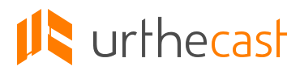
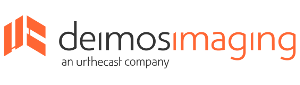
1 more sponsor and changing frame

Changed region(s): [[0.0, 0.1013, 0.99, 0.8354]]

diff --git a/index_en.html b/index_en.html
@@ -66,7 +66,7 @@
             <h2>21-22 November, 2016 / Hotel Ramada Plaza Astana, Astana</h2>
             
             <h1>Space days in Kazakhstan - 2016</h1>
-            <p>Theme: «Cutting edge space technologies: experience and future prospects»</p>
+            <p>Theme: «Cutting edge space technologies: experience and prospects»</p>
             <p>4th &amp; International seminar</p>
             
             <a class="btn btn-yellow" data-scroll href="#registration">Register Now</a>
@@ -421,7 +421,7 @@
                 <div class="col-xs-12">
                     <div class="panel panel-primary">
                         <div class="panel-heading">
-                            <h3 class="panel-title">Theme: «Cutting edge space technologies: experience and future prospects»</h3>
+                            <h3 class="panel-title">Theme: «Cutting edge space technologies: experience and prospects»</h3>
                             <span class="pull-right">
                                 <!-- Tabs -->
                                 <ul class="nav panel-tabs">
@@ -888,6 +888,35 @@
         </div>
         <!--end of container-->
     </section>
+    
+    
+    <section id="hackaton" class="section bg-image-3 contribution">
+        
+        <div class="container">
+            <div class="row">
+                <div class="col-md-12">
+                    <h2 class="text-uppercase section-title font-400" id="hackaton-title">First time in the frame of workshop – 1st Space technology hackathon </h2>
+                    <br/>
+                </div>
+                <div class="col-md-4 text-left">
+                    <p>First space technology hackathon “Space Days” invites students, young scientists, application developers and innovators 
+                    to try their strengths in solution of space problems!   </p>
+                    <a class="btn btn-yellow" href="https://techgarden.kz/space">Find more</a>
+                </div>
+                <br/>
+                <div class="col-md-4 text-left">
+                    <p>Within the event series of interesting master-classes, as well pitching of business ideas and projects based on 
+                    the given domain are planned. The participants are not limited in solving certain space problems. </p>
+                    <a class="btn btn-yellow" href="assets/download/hackaton_booklet.pdf" download target="_blank">Download program</a>
+                </div>
+                <br/>
+                <div class="col-md-4 text-left">
+                    <p>Proposed solutions are only limited by technological areas and conditions of using data from Earth remote sensing 
+                    satellites and high accuracy satellite navigation system of Kazakhstan</p><br/>
+                </div>
+            </div>
+        </div>
+    </section>
 
     <section id="partners" class="section partner">
         <div class="container">
@@ -907,37 +936,40 @@
                     <span id="sponsor_gold_sstl" class="sponsors sponsor_gold"></span>    
                 </div>
             </div>
-            <div class="row">
+            <div class="row text-center">
                 <h3 class="section-title silver"><span>Silver Sponsors</span></h3>
-                <div class="col-md-4 text-center">
+                <div class="col-md-3">
                     <span id="sponsor_silver_urthecast" class="sponsors sponsor_silver"></span>    
                 </div>
-                <div class="col-md-4 text-center">
+                <div class="col-md-3">
                     <span id="sponsor_silver_nat" class="sponsors sponsor_silver"></span>    
                 </div>
-                <div class="col-md-4 text-center">
+                <div class="col-md-3">
                     <span id="sponsor_silver_ba" class="sponsors sponsor_silver"></span>    
                 </div>
-                <div class="col-md-4 text-center">
+                <div class="col-md-3">
                     <span id="sponsor_silver_sunacs" class="sponsors sponsor_silver"></span>    
                 </div>
-                <div class="col-md-4 text-center">
+                <div class="col-md-3">
                     <span id="sponsor_silver_cosmotrans" class="sponsors sponsor_silver"></span>    
                 </div>
-                <div class="col-md-4 text-center">
+                <div class="col-md-3">
                     <span id="sponsor_silver_geoscan" class="sponsors sponsor_silver"></span>    
                 </div>
-                <div class="col-md-4 text-center">
+                <div class="col-md-3">
                     <span id="sponsor_silver_ibs" class="sponsors sponsor_silver"></span>    
                 </div>
-                <div class="col-md-4 text-center">
+                <div class="col-md-3">
                     <span id="sponsor_silver_sovzond" class="sponsors sponsor_silver"></span>    
                 </div>
-                <div class="col-md-4 text-center">
+                <div class="col-md-3 col-md-offset-1">
                     <span id="sponsor_silver_racurs" class="sponsors sponsor_silver"></span>    
                 </div>
-                <div class="col-md-4 col-md-offset-4 text-center">
+                <div class="col-md-3">
                     <span id="sponsor_silver_scanecs" class="sponsors sponsor_silver"></span>    
+                </div>
+                <div class="col-md-3">
+                    <span id="sponsor_silver_baiterek" class="sponsors sponsor_silver"></span>    
                 </div>
             </div>
             <div class="row text-center">
@@ -1203,7 +1235,7 @@
                     <address>
                         <p>
                             Abai Ave.47<br>Ramada Plaza Astana<br/>
-                            <a href="http://ramadaplazaastana.kz/"><img src="assets/images/logoRPA.png" alt ="Ramada Plaza Astana logo" height="106" width="150"/></a><br/>
+                            <a href="http://ramadaplazaastana.kz/"><img src="assets/images/logoRPA.png" alt ="Ramada Plaza Astana logo" width="200px" height="141px" /></a><br/>
                             <span><b>Contacts</b> <br/>Email: <a href="mailto:spacedayskz@gmail.com">spacedayskz@gmail.com</a></span>
                             <br/>
                             <br/>

diff --git a/index.html b/index.html
@@ -219,7 +219,7 @@
                         <figure>
                             <img alt="" class="img-responsive center-block" src="assets/images/speakers/speaker-6.jpg">
                         </figure>
-                        <h4>Луис Гомс</h4>
+                        <h4>Луис Гомес</h4>
                         <p>Коммерческий директор "Surrey Satellite Technology Ltd"</p>
                     </div>
                 </div>
@@ -386,7 +386,7 @@
                 <div class="col-md-12">
                     <h3 class="text-uppercase mt0 font-400">Забронируйте свое проживание вместе с Ramada Plaza Astana</h3>
                     <br/>
-                    <p>Уже скоро! Специальное предлоожение</p>
+                    <p>Уже скоро! Специальное предложение</p>
                     <br/>
                     <!--<a class="btn btn-yellow" href="http://www.marriott.com/meeting-event-hotels/group-corporate-travel/groupCorp.mi?resLinkData=Kazakhstan%20Gharysh%20Sapary%5Etsemc%60kgskgsa%6080.00%60USD%60false%602%6011/18/16%6011/23/16%6011/16/16&app=resvlink&stop_mobi=yes">Забронировать</a>-->
                 </div>
@@ -698,7 +698,7 @@
                                             17:50 - 18:00
                                         </div>
                                         <div class="col-xs-8 col-md-10">
-                                            Завершение работы секции, подведение и��огов первого дня работы
+                                            Завершение работы секции, подведение итогов первого дня работы
                                         </div>
                                     </div>
                                     <div class="row">
@@ -902,7 +902,7 @@
         <div class="container">
             <div class="row">
                 <div class="col-md-12">
-                    <h2 class="text-uppercase section-title font-400" id="hackaton-title">Впервые на семинаре - I космический хакатон</h2>    
+                    <h2 class="text-uppercase section-title font-400" id="hackaton-title">Впервые в рамках семинара - I космический хакатон</h2>    
                     <br/>
                 </div>
                 <div class="col-md-4 text-left">
@@ -944,37 +944,40 @@
                     <span id="sponsor_gold_sstl" class="sponsors sponsor_gold"></span>    
                 </div>
             </div>
-            <div class="row">
+            <div class="row text-center">
                 <h3 class="section-title silver"><span>Серебряные Спонсоры</span></h3>
-                <div class="col-md-4 text-center">
+                <div class="col-md-3">
                     <span id="sponsor_silver_urthecast" class="sponsors sponsor_silver"></span>    
                 </div>
-                <div class="col-md-4 text-center">
+                <div class="col-md-3">
                     <span id="sponsor_silver_nat" class="sponsors sponsor_silver"></span>    
                 </div>
-                <div class="col-md-4 text-center">
+                <div class="col-md-3">
                     <span id="sponsor_silver_ba" class="sponsors sponsor_silver"></span>    
                 </div>
-                <div class="col-md-4 text-center">
+                <div class="col-md-3">
                     <span id="sponsor_silver_sunacs" class="sponsors sponsor_silver"></span>    
                 </div>
-                <div class="col-md-4 text-center">
+                <div class="col-md-3">
                     <span id="sponsor_silver_cosmotrans" class="sponsors sponsor_silver"></span>    
                 </div>
-                <div class="col-md-4 text-center">
+                <div class="col-md-3">
                     <span id="sponsor_silver_geoscan" class="sponsors sponsor_silver"></span>    
                 </div>
-                <div class="col-md-4 text-center">
+                <div class="col-md-3">
                     <span id="sponsor_silver_ibs" class="sponsors sponsor_silver"></span>    
                 </div>
-                <div class="col-md-4 text-center">
+                <div class="col-md-3">
                     <span id="sponsor_silver_sovzond" class="sponsors sponsor_silver"></span>    
                 </div>
-                <div class="col-md-4 text-center">
+                <div class="col-md-3 col-md-offset-1">
                     <span id="sponsor_silver_racurs" class="sponsors sponsor_silver"></span>    
                 </div>
-                <div class="col-md-4 col-md-offset-4 text-center">
+                <div class="col-md-3">
                     <span id="sponsor_silver_scanecs" class="sponsors sponsor_silver"></span>    
+                </div>
+                <div class="col-md-3">
+                    <span id="sponsor_silver_baiterek" class="sponsors sponsor_silver"></span>    
                 </div>
             </div>
             <div class="row text-center">
@@ -1297,7 +1300,7 @@
                     <address>
                         <p>
                             Пр.Абая,47<br>Ramada Plaza Astana<br/>
-                            <a href="http://ramadaplazaastana.kz/"><img src="assets/images/logoRPA.png" alt ="Ramada Plaza Astana logo" height="106" width="150"/></a><br/>
+                            <a href="http://ramadaplazaastana.kz/"><img src="assets/images/logoRPA.png" alt ="Ramada Plaza Astana logo" width="200px" height="141px" /></a><br/>
                             <span><b>Контакты</b> <br/>Email: <a href="mailto:spacedayskz@gmail.com">spacedayskz@gmail.com</a></span>
                             <br/>
                             <br/>

diff --git a/index_kz.html b/index_kz.html
@@ -906,37 +906,40 @@
                     <span id="sponsor_gold_sstl" class="sponsors sponsor_gold"></span>    
                 </div>
             </div>
-            <div class="row">
+            <div class="row text-center">
                 <h3 class="section-title silver"><span>Күміс Демеушілер</span></h3>
-                <div class="col-md-4 text-center">
+                <div class="col-md-3">
                     <span id="sponsor_silver_urthecast" class="sponsors sponsor_silver"></span>    
                 </div>
-                <div class="col-md-4 text-center">
+                <div class="col-md-3">
                     <span id="sponsor_silver_nat" class="sponsors sponsor_silver"></span>    
                 </div>
-                <div class="col-md-4 text-center">
+                <div class="col-md-3">
                     <span id="sponsor_silver_ba" class="sponsors sponsor_silver"></span>    
                 </div>
-                <div class="col-md-4 text-center">
+                <div class="col-md-3">
                     <span id="sponsor_silver_sunacs" class="sponsors sponsor_silver"></span>    
                 </div>
-                <div class="col-md-4 text-center">
+                <div class="col-md-3">
                     <span id="sponsor_silver_cosmotrans" class="sponsors sponsor_silver"></span>    
                 </div>
-                <div class="col-md-4 text-center">
+                <div class="col-md-3">
                     <span id="sponsor_silver_geoscan" class="sponsors sponsor_silver"></span>    
                 </div>
-                <div class="col-md-4 text-center">
+                <div class="col-md-3">
                     <span id="sponsor_silver_ibs" class="sponsors sponsor_silver"></span>    
                 </div>
-                <div class="col-md-4 text-center">
+                <div class="col-md-3">
                     <span id="sponsor_silver_sovzond" class="sponsors sponsor_silver"></span>    
                 </div>
-                <div class="col-md-4 text-center">
+                <div class="col-md-3 col-md-offset-1">
                     <span id="sponsor_silver_racurs" class="sponsors sponsor_silver"></span>    
                 </div>
-                <div class="col-md-4 col-md-offset-4 text-center">
+                <div class="col-md-3">
                     <span id="sponsor_silver_scanecs" class="sponsors sponsor_silver"></span>    
+                </div>
+                <div class="col-md-3">
+                    <span id="sponsor_silver_baiterek" class="sponsors sponsor_silver"></span>    
                 </div>
             </div>
             <div class="row text-center">
@@ -1203,7 +1206,7 @@
                     <address>
                         <p>
                             Абай данғылы, 47<br>Ramada Plaza Astana<br/>
-                            <a href="http://ramadaplazaastana.kz/"><img src="assets/images/logoRPA.png" alt ="Ramada Plaza Astana logo" height="106" width="150"/></a><br/>
+                            <a href="http://ramadaplazaastana.kz/"><img src="assets/images/logoRPA.png" alt ="Ramada Plaza Astana logo" width="200px" height="141px" /></a><br/>
                             <span><b>Байланыстар</b> 
                             <br/>Email: <a href="mailto:spacedayskz@gmail.com">spacedayskz@gmail.com</a></span>
                             <br/>

diff --git a/assets/css/main.css b/assets/css/main.css
@@ -893,8 +893,8 @@ ul li {
     height: 85px;
   }
   .sponsor_hackaton {
-    width: 400px; 
-    height: 151px;
+    width: 212px; 
+    height: 80px;
   }
 }
 
@@ -939,9 +939,15 @@ ul li {
 #sponsor_silver_scanecs {
   background: url(../images/partner/Sponsors_Scanecs.png) no-repeat center center/cover;
 }
+#sponsor_silver_baiterek {
+  background: url(../images/partner/Sponsors_Baiterek.png) no-repeat center center/cover;
+}
 #sponsor_hackaton_esri {
   background: url(../images/partner/Sponsors_Esri.png) no-repeat center center/cover;
 }
+
+
+
 
 /*Panel tabs*/
 .panel-tabs {
